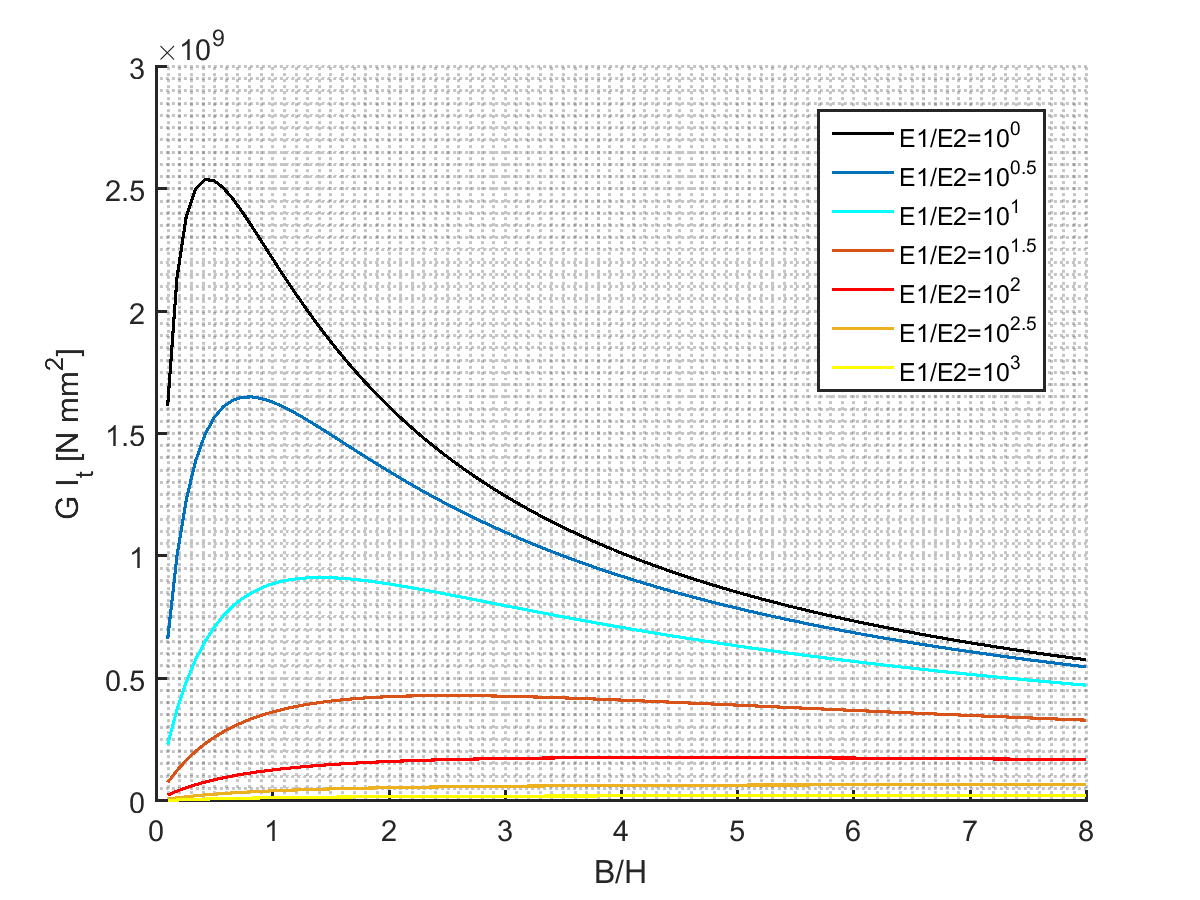
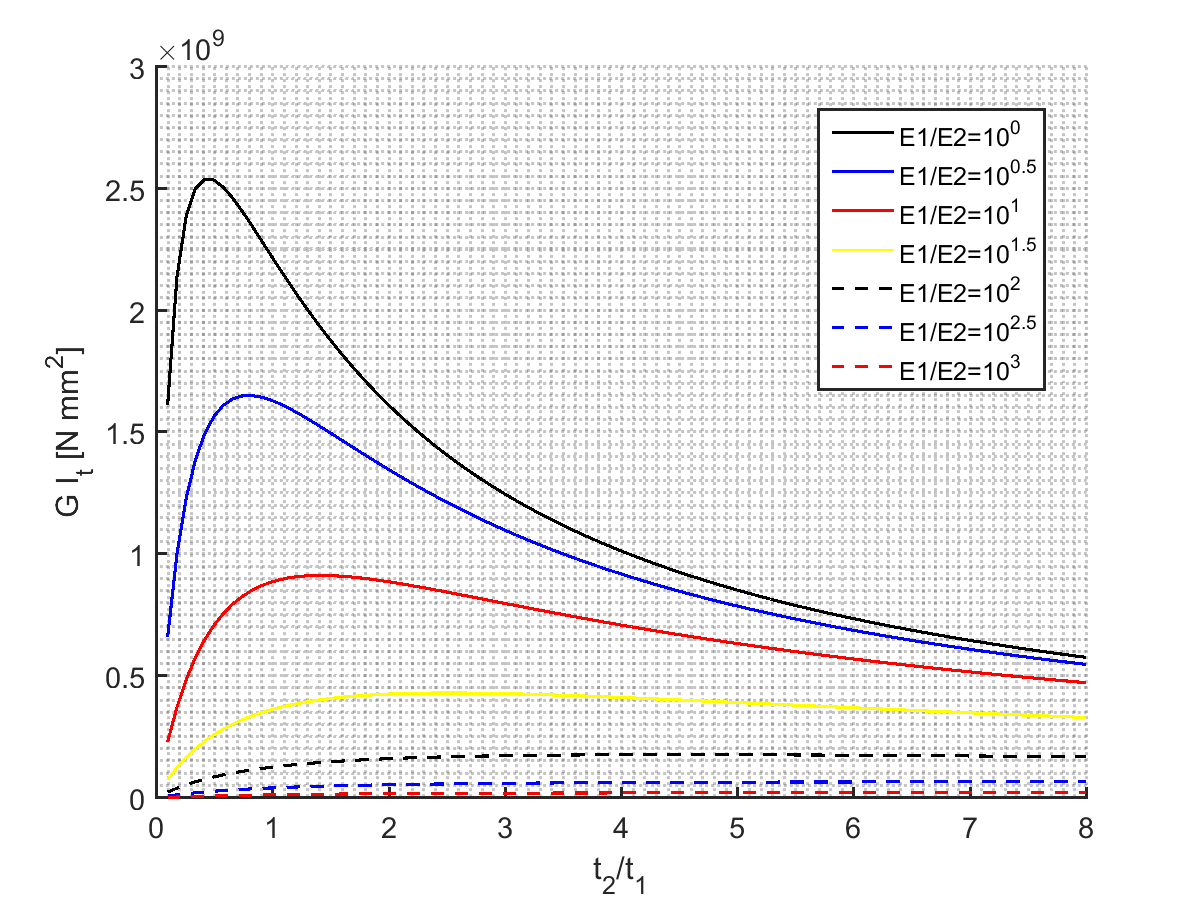
Corrections made. Plots ready for latex.

diff --git a/variationParameters.m b/variationParameters.m
@@ -23,7 +23,7 @@ plotSettings.plotAnalytical = false;
 plotSettings.savePlot = true;
 
 plotSettings.lineStyle = {'-', '--', ':', '-.'};
-plotSettings.lineColor = {'k', 'c', 'r', 'y'}
+plotSettings.lineColor = {'k', 'b', 'r', 'y'};
 plotSettings.MarkerSize = 30; %Marker size for scattered points, specified as a positive value in points.
 plotSettings.LineWidth = 1.5; %Line width, specified as a positive value in points.
 plotSettings.axGridAlpha = 0.2; %Grid-line transparency, specified as a value in the range [0,1].
@@ -63,7 +63,7 @@ for i_study= 1:study.n_E1overE2
 end
 
 figure('Units', 'normalized', 'Position', [0.15 0.1 0.7 0.75])
-set(gcf, 'Name', 'Twist at tip as a function of stiffness ratio E_1/E_2)')
+set(gcf, 'Name', 'Twist at tip as a function of stiffness ratio E_1/E_2')
 ax = gca;
 loglog(ax, study.storage_E1overE2, study.twistTip, 'LineWidth', plotSettings.LineWidth);
 % set(ax, 'YScale', 'log')
@@ -82,7 +82,7 @@ end
 
 %%%%%%%%%%%%%%%%%%%%%%%%%%%%%%%%%%%%%%%%%%%%%%
 %%%%%%%%%%%%%%%%%%%%%%%%%%%%%%%%%%%%%%%%%%%%%%
-%% Variation of B/H - Torsional stiffness
+%% Variation of B/H
 clearvars study mat geom
 study.BoverH = linspace(0.5, 4, 100);
 study.E1overE2 = [1, 10^0.5, 10^1, 10^1.5, 10^2, 10^2.5, 10^3];
@@ -107,8 +107,11 @@ study.Phi_y(i_study, j_study) = oper.Phi_y;
 end
 end
 
+%%%%%%%%%%%%%%%%%%%%%
+%% Torsional stiffness
+
 figure('Units', 'normalized', 'Position', [0.15 0.1 0.7 0.75])
-set(gcf, 'Name', 'Torsional stiffness variation for different cross sectional aspect ratio B/H and stiffness ratio E_1/E_2)')
+set(gcf, 'Name', 'Torsional stiffness variation for different cross sectional aspect ratio B/H and stiffness ratio E_1/E_2')
 ax = gca;
 ylabel('G I_t [N mm^2]')
 xlabel(['B/H'])
@@ -145,7 +148,7 @@ end
 %% Shear center
 
 figure('Units', 'normalized', 'Position', [0.15 0.1 0.7 0.75])
-set(gcf, 'Name', 'Shear center for closed section location for different cross sectional aspect ratio B/H and stiffness ratio E_1/E_2)')
+set(gcf, 'Name', 'Shear center for closed section location for different cross sectional aspect ratio B/H and stiffness ratio E_1/E_2')
 ax = gca;
 ylabel('y_{SC} / B')
 xlabel(['B/H'])
@@ -179,9 +182,10 @@ if plotSettings.savePlot
 end
 
 %%%%%%%%%%%%%%%%%%%%%
+%% Flexural stiffness
 
 figure('Units', 'normalized', 'Position', [0.15 0.1 0.7 0.75])
-set(gcf, 'Name', 'Flexural stiffness for different cross sectional aspect ratio B/H and stiffness ratio E_1/E_2)')
+set(gcf, 'Name', 'Flexural stiffness for different cross sectional aspect ratio B/H and stiffness ratio E_1/E_2')
 ax = gca;
 ylabel('\phi_y [N mm^2]')
 xlabel(['B/H'])
@@ -216,7 +220,7 @@ end
 
 %%%%%%%%%%%%%%%%%%%%%%%%%%%%%%%%%%%%%%%%%%%%%%
 %%%%%%%%%%%%%%%%%%%%%%%%%%%%%%%%%%%%%%%%%%%%%%
-%% Variation of t_2/t_1 - Torsional stiffness
+%% Variation of t_2/t_1
 clearvars study mat geom
 study.t2overt1 = linspace(0.1, 8, 100);
 study.E1overE2 = [1, 10^0.5, 10^1, 10^1.5, 10^2, 10^2.5, 10^3];
@@ -241,11 +245,14 @@ study.Phi_y(i_study, j_study) = oper.Phi_y;
 end
 end
 
+%%%%%%%%%%%%%%%%%%%%%
+%% Torsional stiffness
+
 figure('Units', 'normalized', 'Position', [0.15 0.1 0.7 0.75])
-set(gcf, 'Name', 'Torsional stiffness variation for different thickness ratio t_2/t_1 and stiffness ratio E_1/E_2)')
+set(gcf, 'Name', 'Torsional stiffness variation for different thickness ratio t_2/t_1 and stiffness ratio E_1/E_2')
 ax = gca;
 ylabel('G I_t [N mm^2]')
-xlabel(['B/H'])
+xlabel(['t_2/t_1'])
 hold on
 
 y_plots = zeros(1, length(study.E1overE2));
@@ -279,10 +286,10 @@ end
 %% Shear center
 
 figure('Units', 'normalized', 'Position', [0.15 0.1 0.7 0.75])
-set(gcf, 'Name', 'Shear center for closed section location for different thickness ratio t_2/t_1 and stiffness ratio E_1/E_2)')
+set(gcf, 'Name', 'Shear center for closed section location for different thickness ratio t_2/t_1 and stiffness ratio E_1/E_2')
 ax = gca;
 ylabel('y_{SC} / B')
-xlabel(['B/H'])
+xlabel(['t_2/t_1'])
 hold on
 
 y_plots = zeros(1, length(study.E1overE2));
@@ -313,12 +320,13 @@ if plotSettings.savePlot
 end
 
 %%%%%%%%%%%%%%%%%%%%%
+%% Flexural stifness
 
 figure('Units', 'normalized', 'Position', [0.15 0.1 0.7 0.75])
-set(gcf, 'Name', 'Flexural stiffness for different thickness ratio t_2/t_1 and stiffness ratio E_1/E_2)')
+set(gcf, 'Name', 'Flexural stiffness for different thickness ratio t_2/t_1 and stiffness ratio E_1/E_2')
 ax = gca;
 ylabel('\phi_y [N mm^2]')
-xlabel(['B/H'])
+xlabel(['t_2/t_1'])
 hold on
 
 y_plots = zeros(1, length(study.E1overE2));
